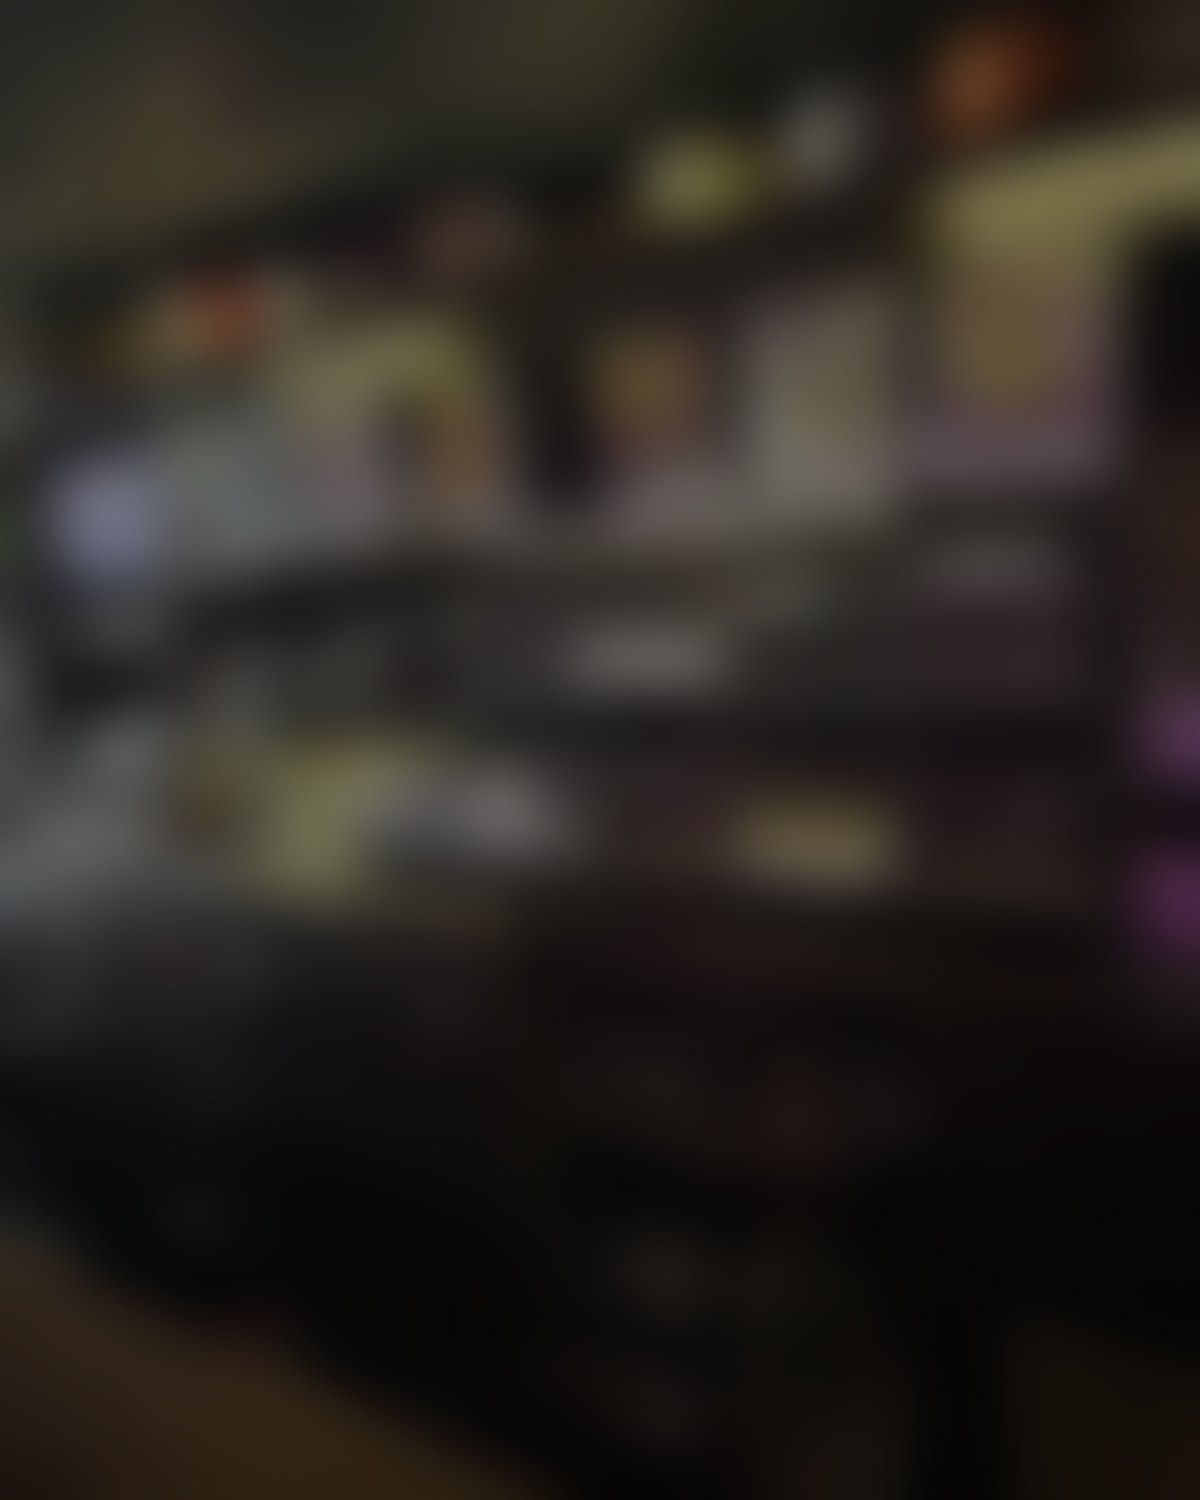
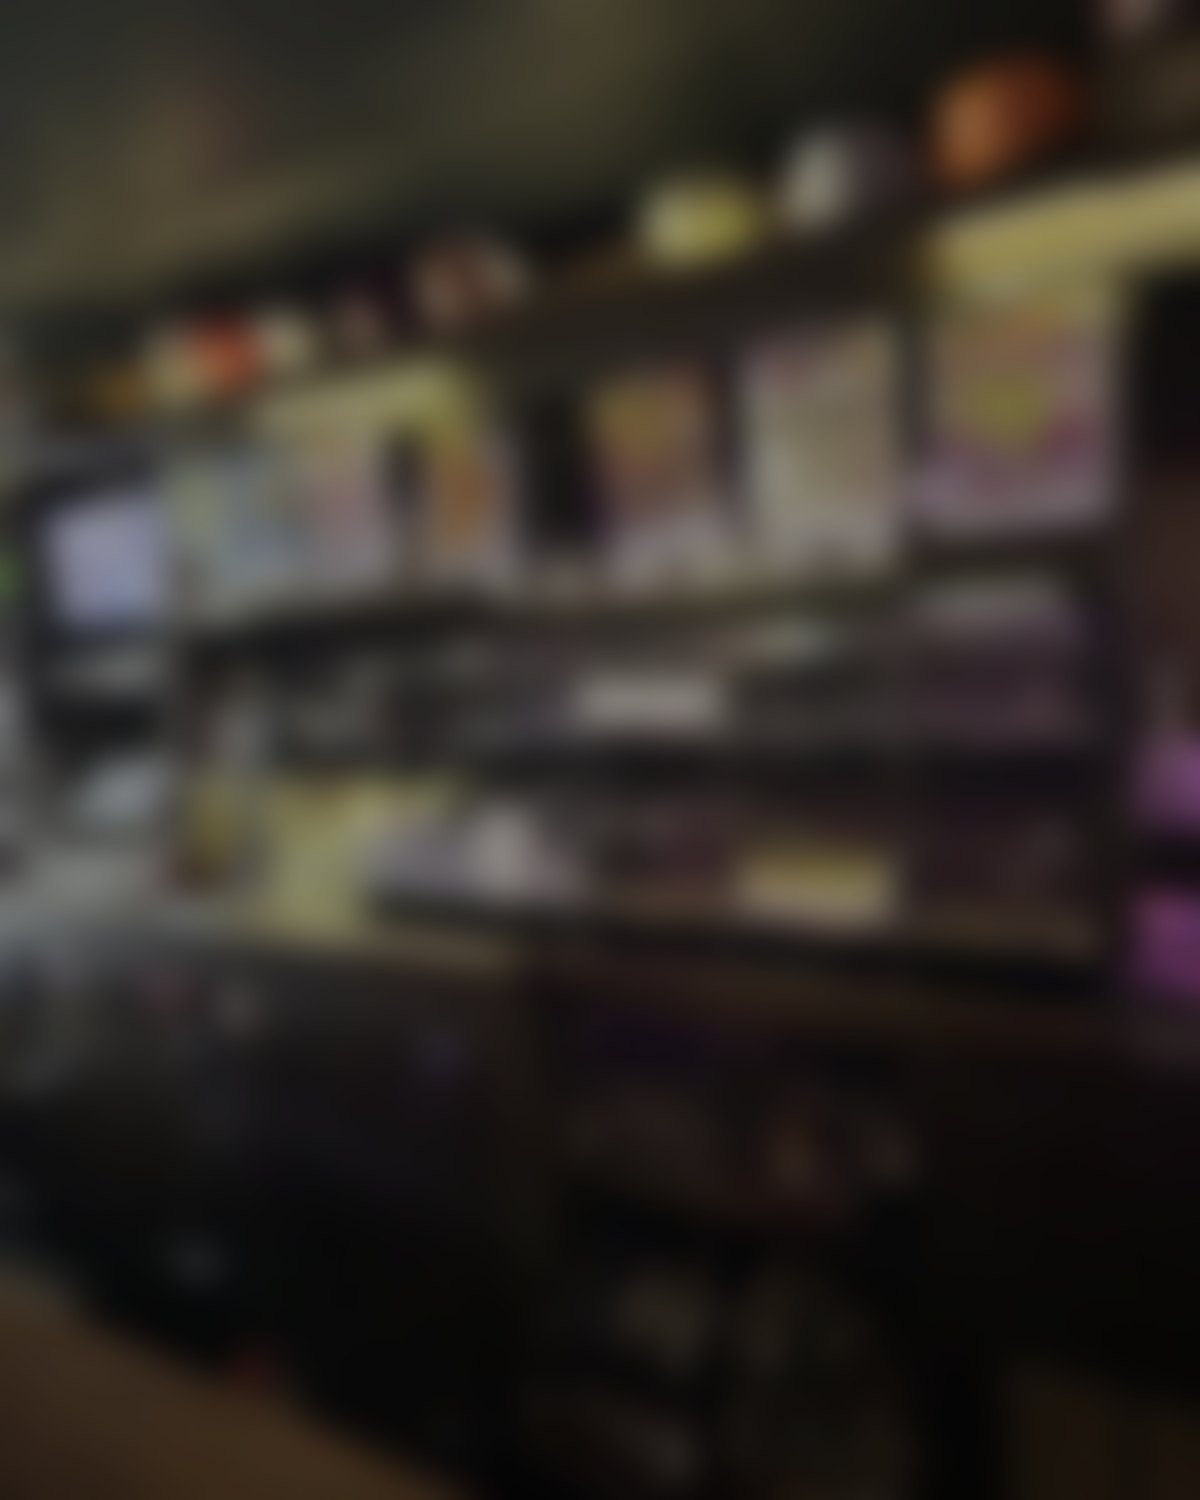
publish demos

diff --git a/_review/bumpys-pub-puyallup-variants.html b/_review/bumpys-pub-puyallup-variants.html
@@ -15,4 +15,4 @@ figcaption{display:flex;align-items:center;gap:8px;flex-wrap:wrap;margin:0 0 8px
 .frame{background:var(--bezel);border-radius:44px;padding:14px;box-shadow:0 12px 30px rgba(0,0,0,.25)}
 iframe{display:block;width:100%;aspect-ratio:390/844;border:0;border-radius:32px;background:#fff}
 @media (max-width:420px){body{padding:12px 8px}.frame{padding:8px;border-radius:30px}iframe{border-radius:22px}}
-</style><main><h1>Bumpy&#x27;s Pub: hero variants</h1><p class="lede">Eight different openers, each inside a phone. Reload a phone to replay its intro; tap Open to hold it. Say the number you want and it goes live.</p><div class="grid"><figure class="phone"><figcaption><span class="name">1. bar-rail</span><a class="go" href="https://hjsdesigns.github.io/demos/bumpys-pub-puyallup/hero-bar-rail.html">Open</a></figcaption><div class="frame"><iframe src="https://hjsdesigns.github.io/demos/bumpys-pub-puyallup/hero-bar-rail.html" title="bar-rail" loading="lazy"></iframe></div><p class="note" style="font-size:13px;color:var(--mute);margin:8px 4px 0;line-height:1.35"></p></figure><figure class="phone"><figcaption><span class="name">2. biggest-little</span><a class="go" href="https://hjsdesigns.github.io/demos/bumpys-pub-puyallup/hero-biggest-little.html">Open</a></figcaption><div class="frame"><iframe src="https://hjsdesigns.github.io/demos/bumpys-pub-puyallup/hero-biggest-little.html" title="biggest-little" loading="lazy"></iframe></div><p class="note" style="font-size:13px;color:var(--mute);margin:8px 4px 0;line-height:1.35">biggest-little — Bumpy&#x27;s Pub hero variant (2026-09-07) The line printed on their own trucker hats — &quot;The Biggest Little Bar in Puyallup&quot; — set huge in the site&#x27;s display face on the room&#x27;s near-black ground, with LITTLE deliberately set tiny between two thin r</p></figure><figure class="phone"><figcaption><span class="name">3. brick-still</span><a class="go" href="https://hjsdesigns.github.io/demos/bumpys-pub-puyallup/hero-brick-still.html">Open</a></figcaption><div class="frame"><iframe src="https://hjsdesigns.github.io/demos/bumpys-pub-puyallup/hero-brick-still.html" title="brick-still" loading="lazy"></iframe></div><p class="note" style="font-size:13px;color:var(--mute);margin:8px 4px 0;line-height:1.35"></p></figure><figure class="phone"><figcaption><span class="name">4. chase-lights</span><a class="go" href="https://hjsdesigns.github.io/demos/bumpys-pub-puyallup/hero-chase-lights.html">Open</a></figcaption><div class="frame"><iframe src="https://hjsdesigns.github.io/demos/bumpys-pub-puyallup/hero-chase-lights.html" title="chase-lights" loading="lazy"></iframe></div><p class="note" style="font-size:13px;color:var(--mute);margin:8px 4px 0;line-height:1.35"></p></figure><figure class="phone"><figcaption><span class="name">5. coaster-flip</span><a class="go" href="https://hjsdesigns.github.io/demos/bumpys-pub-puyallup/hero-coaster-flip.html">Open</a></figcaption><div class="frame"><iframe src="https://hjsdesigns.github.io/demos/bumpys-pub-puyallup/hero-coaster-flip.html" title="coaster-flip" loading="lazy"></iframe></div><p class="note" style="font-size:13px;color:var(--mute);margin:8px 4px 0;line-height:1.35">coaster-flip — Bumpy&#x27;s Pub hero variant A pub coaster lies face-down on Bumpy&#x27;s own carved black bar top, then turns over once with a small spin and settles showing their real hand-drawn wordmark. After that one beat nothing moves but the pendant pool of light</p></figure><figure class="phone"><figcaption><span class="name">6. hat-shelf</span><a class="go" href="https://hjsdesigns.github.io/demos/bumpys-pub-puyallup/hero-hat-shelf.html">Open</a></figcaption><div class="frame"><iframe src="https://hjsdesigns.github.io/demos/bumpys-pub-puyallup/hero-hat-shelf.html" title="hat-shelf" loading="lazy"></iframe></div><p class="note" style="font-size:13px;color:var(--mute);margin:8px 4px 0;line-height:1.35">hat-shelf — the merch IS the sign The real row of Bumpy&#x27;s trucker hats above the back bar opens the site: the shelf sits dark, then the shelf light travels left to right over ~2.2s so the hats read one at a time, the LED strip under the lip grows with it, and </p></figure><figure class="phone"><figcaption><span class="name">7. rainy-neon</span><a class="go" href="https://hjsdesigns.github.io/demos/bumpys-pub-puyallup/hero-rainy-neon.html">Open</a></figcaption><div class="frame"><iframe src="https://hjsdesigns.github.io/demos/bumpys-pub-puyallup/hero-rainy-neon.html" title="rainy-neon" loading="lazy"></iframe></div><p class="note" style="font-size:13px;color:var(--mute);margin:8px 4px 0;line-height:1.35">rainy-neon — Bumpy&#x27;s Pub hero variant Their own rain-night photo of the red BUMPY&#x27;S neon box owns the whole opener: the scene comes up out of the dark, the tubes hunt twice and strike, and gentle rain keeps falling while the snowflake light under the sign brea</p></figure><figure class="phone"><figcaption><span class="name">8. tab-rack</span><a class="go" href="https://hjsdesigns.github.io/demos/bumpys-pub-puyallup/hero-tab-rack.html">Open</a></figcaption><div class="frame"><iframe src="https://hjsdesigns.github.io/demos/bumpys-pub-puyallup/hero-tab-rack.html" title="tab-rack" loading="lazy"></iframe></div><p class="note" style="font-size:13px;color:var(--mute);margin:8px 4px 0;line-height:1.35">tab-rack — Bumpy&#x27;s Pub hero variant Their own numbered pull-tab rack is the opener: it lights compartment by compartment, left to right, top row then bottom, like a scoreboard coming on. Their real wordmark then comes forward out of the middle of the rack and </p></figure></div></main>
+</style><main><h1>Bumpy&#x27;s Pub: hero variants</h1><p class="lede">Eight different openers, each inside a phone. Reload a phone to replay its intro; tap Open to hold it. Say the number you want and it goes live.</p><div class="grid"><figure class="phone"><figcaption><span class="name">1. bar-rail</span><a class="go" href="https://hjsdesigns.github.io/demos/bumpys-pub-puyallup/hero-bar-rail.html">Open</a></figcaption><div class="frame"><iframe src="https://hjsdesigns.github.io/demos/bumpys-pub-puyallup/hero-bar-rail.html" title="bar-rail" loading="lazy"></iframe></div><p class="note" style="font-size:13px;color:var(--mute);margin:8px 4px 0;line-height:1.35"></p></figure><figure class="phone"><figcaption><span class="name">2. biggest-little</span><a class="go" href="https://hjsdesigns.github.io/demos/bumpys-pub-puyallup/hero-biggest-little.html">Open</a></figcaption><div class="frame"><iframe src="https://hjsdesigns.github.io/demos/bumpys-pub-puyallup/hero-biggest-little.html" title="biggest-little" loading="lazy"></iframe></div><p class="note" style="font-size:13px;color:var(--mute);margin:8px 4px 0;line-height:1.35">biggest-little — Bumpy&#x27;s Pub hero variant (2026-09-07) The line printed on their own trucker hats — &quot;The Biggest Little Bar in Puyallup&quot; — set huge in the site&#x27;s display face on the room&#x27;s near-black ground, with LITTLE deliberately set tiny between two thin r</p></figure><figure class="phone"><figcaption><span class="name">3. brick-still</span><a class="go" href="https://hjsdesigns.github.io/demos/bumpys-pub-puyallup/hero-brick-still.html">Open</a></figcaption><div class="frame"><iframe src="https://hjsdesigns.github.io/demos/bumpys-pub-puyallup/hero-brick-still.html" title="brick-still" loading="lazy"></iframe></div><p class="note" style="font-size:13px;color:var(--mute);margin:8px 4px 0;line-height:1.35">brick-still — variant 6 The real daylight storefront on E Main is held completely still — no pan, no loop, no interaction. One soft light bloom comes up across the brick on load, the Rainier &quot;R&quot; in the window catches and stays lit, and their own red wordmark s</p></figure><figure class="phone"><figcaption><span class="name">4. chase-lights</span><a class="go" href="https://hjsdesigns.github.io/demos/bumpys-pub-puyallup/hero-chase-lights.html">Open</a></figcaption><div class="frame"><iframe src="https://hjsdesigns.github.io/demos/bumpys-pub-puyallup/hero-chase-lights.html" title="chase-lights" loading="lazy"></iframe></div><p class="note" style="font-size:13px;color:var(--mute);margin:8px 4px 0;line-height:1.35"></p></figure><figure class="phone"><figcaption><span class="name">5. coaster-flip</span><a class="go" href="https://hjsdesigns.github.io/demos/bumpys-pub-puyallup/hero-coaster-flip.html">Open</a></figcaption><div class="frame"><iframe src="https://hjsdesigns.github.io/demos/bumpys-pub-puyallup/hero-coaster-flip.html" title="coaster-flip" loading="lazy"></iframe></div><p class="note" style="font-size:13px;color:var(--mute);margin:8px 4px 0;line-height:1.35">coaster-flip — Bumpy&#x27;s Pub hero variant A pub coaster lies face-down on Bumpy&#x27;s own carved black bar top, then turns over once with a small spin and settles showing their real hand-drawn wordmark. After that one beat nothing moves but the pendant pool of light</p></figure><figure class="phone"><figcaption><span class="name">6. hat-shelf</span><a class="go" href="https://hjsdesigns.github.io/demos/bumpys-pub-puyallup/hero-hat-shelf.html">Open</a></figcaption><div class="frame"><iframe src="https://hjsdesigns.github.io/demos/bumpys-pub-puyallup/hero-hat-shelf.html" title="hat-shelf" loading="lazy"></iframe></div><p class="note" style="font-size:13px;color:var(--mute);margin:8px 4px 0;line-height:1.35">hat-shelf — the merch IS the sign The real row of Bumpy&#x27;s trucker hats above the back bar opens the site: the shelf sits dark, then the shelf light travels left to right over ~2.2s so the hats read one at a time, the LED strip under the lip grows with it, and </p></figure><figure class="phone"><figcaption><span class="name">7. rainy-neon</span><a class="go" href="https://hjsdesigns.github.io/demos/bumpys-pub-puyallup/hero-rainy-neon.html">Open</a></figcaption><div class="frame"><iframe src="https://hjsdesigns.github.io/demos/bumpys-pub-puyallup/hero-rainy-neon.html" title="rainy-neon" loading="lazy"></iframe></div><p class="note" style="font-size:13px;color:var(--mute);margin:8px 4px 0;line-height:1.35">rainy-neon — Bumpy&#x27;s Pub hero variant Their own rain-night photo of the red BUMPY&#x27;S neon box owns the whole opener: the scene comes up out of the dark, the tubes hunt twice and strike, and gentle rain keeps falling while the snowflake light under the sign brea</p></figure><figure class="phone"><figcaption><span class="name">8. tab-rack</span><a class="go" href="https://hjsdesigns.github.io/demos/bumpys-pub-puyallup/hero-tab-rack.html">Open</a></figcaption><div class="frame"><iframe src="https://hjsdesigns.github.io/demos/bumpys-pub-puyallup/hero-tab-rack.html" title="tab-rack" loading="lazy"></iframe></div><p class="note" style="font-size:13px;color:var(--mute);margin:8px 4px 0;line-height:1.35">tab-rack — Bumpy&#x27;s Pub hero variant Their own numbered pull-tab rack is the opener: it lights compartment by compartment, left to right, top row then bottom, like a scoreboard coming on. Their real wordmark then comes forward out of the middle of the rack and </p></figure></div></main>

diff --git a/bumpys-pub-puyallup/hero-bar-rail.css b/bumpys-pub-puyallup/hero-bar-rail.css
@@ -21,13 +21,13 @@
 .hero.v-bar-rail .brail-room{
   position:absolute;inset:-6%;width:112%;height:112%;
   object-fit:cover;object-position:50% 42%;
-  filter:blur(26px) saturate(1.15) brightness(.5);
+  filter:blur(24px) saturate(1.2) brightness(.66);
   transform:scale(1.06);opacity:.9;
 }
 .hero.v-bar-rail .brail-vig{
   position:absolute;inset:0;
   background:
-    radial-gradient(120% 88% at 50% 44%,transparent 8%,color-mix(in srgb,var(--dark) 78%,transparent) 62%,var(--dark) 100%),
+    radial-gradient(120% 88% at 50% 44%,transparent 8%,color-mix(in srgb,var(--dark) 68%,transparent) 64%,var(--dark) 100%),
     linear-gradient(180deg,color-mix(in srgb,var(--dark) 72%,transparent) 0%,transparent 26%,transparent 62%,var(--dark) 100%);
 }
 /* the pendant pool — the only thing still moving after the intro */
